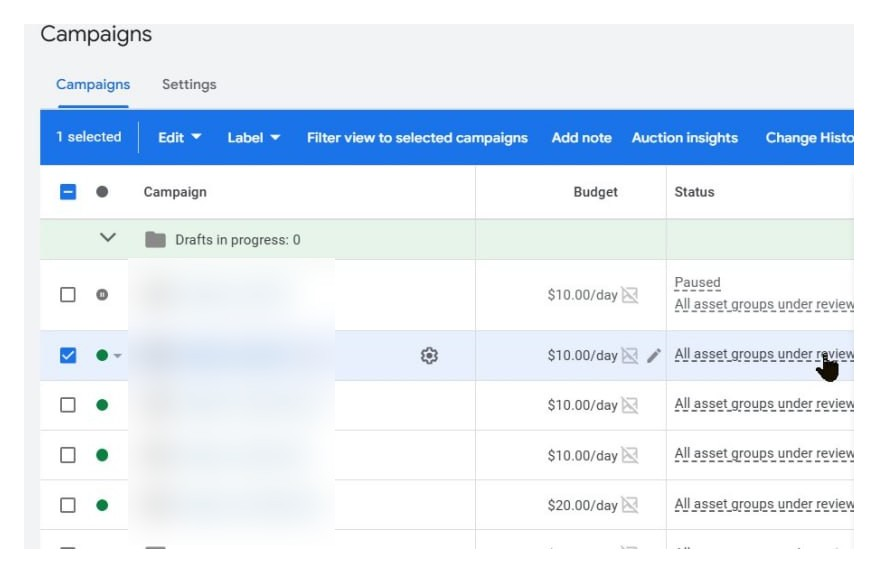
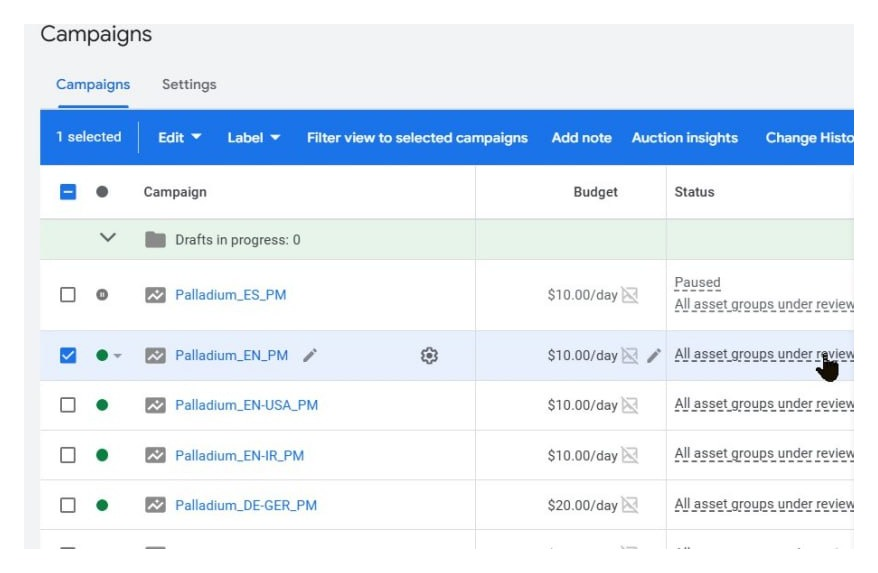
Кейс научного конкурса: убраны паддинги у скринов, разблюр, правки текста
- Убраны внутренние отступы у скриншотов (как в кейсе DBS), добавлен
  overflow:hidden в общий .ab-case-step-image, чтобы скругление рамки
  не перекрывалось прямоугольной картинкой без отступа
- Скрин "Структура кампаний 2025 года" заменен на незаблюренный
- Убрано предложение про предупреждение по тегу в кабинете
- Блок со статистикой по Египту разделен на два скрина с отдельными подписями
- Версия css/style.css забамплена до v=25 для сброса кэша

diff --git a/cases/nauchny-konkurs.html b/cases/nauchny-konkurs.html
@@ -16,7 +16,7 @@
   <link rel="preconnect" href="https://fonts.googleapis.com">
   <link rel="preconnect" href="https://fonts.gstatic.com" crossorigin>
   <link href="https://fonts.googleapis.com/css2?family=Golos+Text:wght@400;500;600;700;800;900&display=swap" rel="stylesheet">
-  <link rel="stylesheet" href="../css/style.css?v=24">
+  <link rel="stylesheet" href="../css/style.css?v=25">
 </head>
 <body>
 
@@ -165,7 +165,7 @@
         <div style="display:flex;flex-direction:column;gap:14px;">
           <h3 style="margin:0;font-size:21px;font-weight:700;color:#1A1612;">Проверка сайта, целей и аналитики</h3>
           <p style="margin:0;font-size:17px;line-height:1.7;color:#3F3933;text-wrap:pretty;">В 2025 году я подготовил код тега для GTM, команда клиента поставила его на лендинги, а аналитику GA4 клиент настраивал отдельным тегом на каждую локализацию. Мне нужен был доступ аккаунта рекламы к аналитике, чтобы импортировать цели, я запросил его через менеджера проекта.</p>
-          <p style="margin:0;font-size:17px;line-height:1.7;color:#3F3933;text-wrap:pretty;">Перед запуском 2026 года я проверил, какие домены работают: на 28 февраля жил только основной сайт, лендинги включались по мере готовности. Запуск 2 марта 2026 года я сделал на работающие домены, остальные добавлял по мере готовности. Когда в кабинете появилось предупреждение про тег, аналитик клиента подтвердил, что код стоит на страницах.</p>
+          <p style="margin:0;font-size:17px;line-height:1.7;color:#3F3933;text-wrap:pretty;">Перед запуском 2026 года я проверил, какие домены работают: на 28 февраля жил только основной сайт, лендинги включались по мере готовности. Запуск 2 марта 2026 года я сделал на работающие домены, остальные добавлял по мере готовности.</p>
         </div>
       </div>
 
@@ -177,7 +177,7 @@
         </div>
       </div>
       <figure class="ab-case-step-figure">
-        <div class="ab-case-step-image" style="padding:16px;">
+        <div class="ab-case-step-image">
           <img src="../images/cases/nauchny-konkurs/case-sc-priorities.jpg" alt="Приоритеты по странам от клиента: высокий, средний, низкий, стоп" width="368" height="1046" style="display:block;width:100%;max-width:360px;height:auto;margin:0 auto;cursor:zoom-in;" role="button" tabindex="0" onclick="abOpenLightbox(this)" onkeydown="if(event.key==='Enter'||event.key===' '){event.preventDefault();abOpenLightbox(this);}">
         </div>
         <figcaption>Приоритеты по странам от клиента: высокий, средний, низкий, стоп</figcaption>
@@ -190,7 +190,7 @@
           <p style="margin:0;font-size:17px;line-height:1.7;color:#3F3933;text-wrap:pretty;">В 2025 году лендингов было восемь. Я собирал кампании по языкам и регионам, а не «одна страна, одна кампания»: при ограниченном бюджете отдельные кампании на каждую страну не успели бы обучиться. Тексты и креативы под форматы Performance Max согласовал клиент. Модерация затянулась, я разбирал возможные причины (тема благородного металла, конкурс с крупным призовым фондом) и упрощал формулировки.</p>
 
           <figure class="ab-case-step-figure" style="margin:0;">
-            <div class="ab-case-step-image" style="padding:16px;">
+            <div class="ab-case-step-image">
               <img src="../images/cases/nauchny-konkurs/case-sc-campaigns-2025.jpg" alt="Структура кампаний Performance Max по языкам и странам, май 2025" width="878" height="573" style="display:block;width:100%;height:auto;cursor:zoom-in;" role="button" tabindex="0" onclick="abOpenLightbox(this)" onkeydown="if(event.key==='Enter'||event.key===' '){event.preventDefault();abOpenLightbox(this);}">
             </div>
             <figcaption>Структура кампаний 2025 года: языки и страны, май 2025</figcaption>
@@ -199,7 +199,7 @@
           <p style="margin:0;font-size:17px;line-height:1.7;color:#3F3933;text-wrap:pretty;">В 2026 году перезапуск шел на той же базе: заменил год в текстах и пересобрал пять языковых кампаний Performance Max (немецкий, английский, испанский, французский, португальский) под список стран клиента. Запуск был 2 марта 2026 года, 15 марта добавил базовые поисковые кампании.</p>
 
           <figure class="ab-case-step-figure" style="margin:0;">
-            <div class="ab-case-step-image" style="padding:16px;">
+            <div class="ab-case-step-image">
               <img src="../images/cases/nauchny-konkurs/case-sc-campaigns-2026.jpg" alt="Кампании 2026 года по странам, 22-28 июня 2026" width="1005" height="696" style="display:block;width:100%;height:auto;cursor:zoom-in;" role="button" tabindex="0" onclick="abOpenLightbox(this)" onkeydown="if(event.key==='Enter'||event.key===' '){event.preventDefault();abOpenLightbox(this);}">
             </div>
             <figcaption>Кампании 2026 года по странам, 22-28 июня 2026</figcaption>
@@ -214,18 +214,24 @@
           <p style="margin:0;font-size:17px;line-height:1.7;color:#3F3933;text-wrap:pretty;"><b>Египет и Индия.</b> В первую неделю клиент прислал статистику посещений: на Египет приходилось 22% визитов, на Индию 13%. В кабинете по этим странам расхода не было. Я проверил GA4 и увидел, что Египет приходил как google / cpc из моей кампании Performance Max. Алгоритм сам расширил показы за пределы таргетинга.</p>
 
           <figure class="ab-case-step-figure" style="margin:0;">
-            <div class="ab-case-step-image" style="padding:16px;display:grid;grid-template-columns:1fr 1fr;gap:12px;">
-              <img src="../images/cases/nauchny-konkurs/case-sc-egypt-india-visits.jpg" alt="Статистика посещений по странам, 2-8 марта 2026: Египет 22%, Индия 13%" width="604" height="720" style="display:block;width:100%;height:auto;border-radius:8px;cursor:zoom-in;" role="button" tabindex="0" onclick="abOpenLightbox(this)" onkeydown="if(event.key==='Enter'||event.key===' '){event.preventDefault();abOpenLightbox(this);}">
-              <img src="../images/cases/nauchny-konkurs/case-sc-ga4-egypt.jpg" alt="GA4: трафик из Египта шел как google / cpc из кампании Performance Max" width="1260" height="416" style="display:block;width:100%;height:auto;border-radius:8px;cursor:zoom-in;" role="button" tabindex="0" onclick="abOpenLightbox(this)" onkeydown="if(event.key==='Enter'||event.key===' '){event.preventDefault();abOpenLightbox(this);}">
+            <div class="ab-case-step-image">
+              <img src="../images/cases/nauchny-konkurs/case-sc-egypt-india-visits.jpg" alt="Статистика посещений по странам, 2-8 марта 2026: Египет 22%, Индия 13%" width="604" height="720" style="display:block;width:100%;height:auto;cursor:zoom-in;" role="button" tabindex="0" onclick="abOpenLightbox(this)" onkeydown="if(event.key==='Enter'||event.key===' '){event.preventDefault();abOpenLightbox(this);}">
             </div>
-            <figcaption>Статистика посещений и отчет GA4 по Египту, 2-8 марта 2026</figcaption>
+            <figcaption>Статистика посещений по странам, 2-8 марта 2026</figcaption>
+          </figure>
+
+          <figure class="ab-case-step-figure" style="margin:0;">
+            <div class="ab-case-step-image">
+              <img src="../images/cases/nauchny-konkurs/case-sc-ga4-egypt.jpg" alt="GA4: трафик из Египта шел как google / cpc из кампании Performance Max" width="1260" height="416" style="display:block;width:100%;height:auto;cursor:zoom-in;" role="button" tabindex="0" onclick="abOpenLightbox(this)" onkeydown="if(event.key==='Enter'||event.key===' '){event.preventDefault();abOpenLightbox(this);}">
+            </div>
+            <figcaption>Отчет GA4 по трафику из Египта, 2-8 марта 2026</figcaption>
           </figure>
 
           <p style="margin:0;font-size:17px;line-height:1.7;color:#3F3933;text-wrap:pretty;">Единственный способ остановить это в Performance Max: исключить страны явно. Я исключил Египет и Индию во всех кампаниях, затем добавил Нигерию и Словакию и составил превентивный список исключений. По накопительной статистике на апрель Египет дал около 1&nbsp;170 визитов против 1&nbsp;141 в первую неделю, то есть рост остановился.</p>
           <p style="margin:0;font-size:17px;line-height:1.7;color:#3F3933;text-wrap:pretty;"><b>Приоритеты клиента.</b> Для малоприоритетных стран я собрал отдельные кампании с минимальным бюджетом, чтобы присутствие было, но основной бюджет шел в приоритетные страны. В апреле сделал таблицу «целевая доля трафика против фактической» и записал действие по каждой стране: сократил бюджет французской кампании с 50 до 20 в день, урезал гео Бразилии, Аргентины и Мексики до крупных городов, убрал Катар, в странах с недобором увеличил лимиты. Для Китая я объяснил, что реклама Google там не работает, а переходы в аналитике из Китая это ошибка атрибуции.</p>
 
           <figure class="ab-case-step-figure" style="margin:0;">
-            <div class="ab-case-step-image" style="padding:16px;">
+            <div class="ab-case-step-image">
               <img src="../images/cases/nauchny-konkurs/case-sc-actions-table.jpg" alt="Целевая доля трафика, факт и действие по каждой стране, апрель 2026" width="1126" height="506" style="display:block;width:100%;height:auto;cursor:zoom-in;" role="button" tabindex="0" onclick="abOpenLightbox(this)" onkeydown="if(event.key==='Enter'||event.key===' '){event.preventDefault();abOpenLightbox(this);}">
             </div>
             <figcaption>Целевая доля трафика, факт и действие по каждой стране, апрель 2026</figcaption>
@@ -235,7 +241,7 @@
         </div>
       </div>
       <figure class="ab-case-step-figure">
-        <div class="ab-case-step-image" style="padding:16px;display:grid;grid-template-columns:1fr 1fr;gap:12px;">
+        <div class="ab-case-step-image" style="display:grid;grid-template-columns:1fr 1fr;gap:12px;">
           <div style="display:flex;flex-direction:column;gap:8px;">
             <span style="font-size:13px;font-weight:600;color:#8A8278;">16-22 июня 2026</span>
             <img src="../images/cases/nauchny-konkurs/case-sc-korea-before.jpg" alt="Показы по странам, 16-22 июня 2026: Южная Корея 119 652 показа" width="1188" height="363" style="display:block;width:100%;height:auto;cursor:zoom-in;" role="button" tabindex="0" onclick="abOpenLightbox(this)" onkeydown="if(event.key==='Enter'||event.key===' '){event.preventDefault();abOpenLightbox(this);}">
@@ -248,7 +254,7 @@
         <figcaption>Показы по странам до и после выноса Кореи в отдельную кампанию</figcaption>
       </figure>
       <figure class="ab-case-step-figure">
-        <div class="ab-case-step-image" style="padding:16px;">
+        <div class="ab-case-step-image">
           <img src="../images/cases/nauchny-konkurs/case-sc-korea-chart.jpg" alt="Доля Кореи в показах: 88,8% и 7,3%" width="1800" height="720" style="display:block;width:100%;height:auto;cursor:zoom-in;" role="button" tabindex="0" onclick="abOpenLightbox(this)" onkeydown="if(event.key==='Enter'||event.key===' '){event.preventDefault();abOpenLightbox(this);}">
         </div>
         <figcaption>Доля Кореи в показах: 88,8% и 7,3%</figcaption>
@@ -263,7 +269,7 @@
         </div>
       </div>
       <figure class="ab-case-step-figure">
-        <div class="ab-case-step-image" style="padding:16px;">
+        <div class="ab-case-step-image">
           <img src="../images/cases/nauchny-konkurs/case-sc-weekly-dynamics.jpg" alt="Клики и расход по неделям, март-апрель 2026" width="1950" height="780" style="display:block;width:100%;height:auto;cursor:zoom-in;" role="button" tabindex="0" onclick="abOpenLightbox(this)" onkeydown="if(event.key==='Enter'||event.key===' '){event.preventDefault();abOpenLightbox(this);}">
         </div>
         <figcaption>Клики и расход по неделям, март-апрель 2026</figcaption>
@@ -298,7 +304,7 @@
       </div>
 
       <figure class="ab-case-step-figure">
-        <div class="ab-case-step-image" style="padding:16px;">
+        <div class="ab-case-step-image">
           <img src="../images/cases/nauchny-konkurs/case-sc-season-2026.jpg" alt="Клики, расход и цена клика по месяцам, март-июль 2026" width="2250" height="780" style="display:block;width:100%;height:auto;cursor:zoom-in;" role="button" tabindex="0" onclick="abOpenLightbox(this)" onkeydown="if(event.key==='Enter'||event.key===' '){event.preventDefault();abOpenLightbox(this);}">
         </div>
         <figcaption>Клики, расход и цена клика по месяцам, март-июль 2026</figcaption>

diff --git a/cases/all-cases.html b/cases/all-cases.html
@@ -16,7 +16,7 @@
   <link rel="preconnect" href="https://fonts.googleapis.com">
   <link rel="preconnect" href="https://fonts.gstatic.com" crossorigin>
   <link href="https://fonts.googleapis.com/css2?family=Golos+Text:wght@400;500;600;700;800;900&display=swap" rel="stylesheet">
-  <link rel="stylesheet" href="../css/style.css?v=24">
+  <link rel="stylesheet" href="../css/style.css?v=25">
   <style>
     .case-row { display:flex; align-items:stretch; transition:transform 0.2s ease, box-shadow 0.2s ease; }
     .case-row:hover { transform:translateY(-4px); box-shadow:0 18px 36px -24px rgba(60,40,20,0.3); }

diff --git a/cases/index.html b/cases/index.html
@@ -15,7 +15,7 @@
   <link rel="preconnect" href="https://fonts.googleapis.com">
   <link rel="preconnect" href="https://fonts.gstatic.com" crossorigin>
   <link href="https://fonts.googleapis.com/css2?family=Golos+Text:wght@400;500;600;700;800;900&display=swap" rel="stylesheet">
-  <link rel="stylesheet" href="../css/style.css?v=24">
+  <link rel="stylesheet" href="../css/style.css?v=25">
   <style>
     .case-row { display:flex; align-items:stretch; transition:transform 0.2s ease, box-shadow 0.2s ease; }
     .case-row:hover { transform:translateY(-4px); box-shadow:0 18px 36px -24px rgba(60,40,20,0.3); }

diff --git a/cases/klinika-dubai.html b/cases/klinika-dubai.html
@@ -15,7 +15,7 @@
   <link rel="preconnect" href="https://fonts.googleapis.com">
   <link rel="preconnect" href="https://fonts.gstatic.com" crossorigin>
   <link href="https://fonts.googleapis.com/css2?family=Golos+Text:wght@400;500;600;700;800;900&display=swap" rel="stylesheet">
-  <link rel="stylesheet" href="../css/style.css?v=24">
+  <link rel="stylesheet" href="../css/style.css?v=25">
   <style>
     .kd-stats-strip { display:grid; grid-template-columns:repeat(2,1fr); }
     .kd-stats-strip > div { padding:24px 20px; border-top:1px solid #E6E0D7; }

diff --git a/cases/fulfillment-msk.html b/cases/fulfillment-msk.html
@@ -16,7 +16,7 @@
 <link rel="preconnect" href="https://fonts.googleapis.com">
 <link rel="preconnect" href="https://fonts.gstatic.com" crossorigin="">
 <link href="https://fonts.googleapis.com/css2?family=Golos+Text:wght@400;500;600;700;800;900&amp;display=swap" rel="stylesheet">
-<link rel="stylesheet" href="../css/style.css?v=24">
+<link rel="stylesheet" href="../css/style.css?v=25">
 <style>
 body{margin:0}
 *{box-sizing:border-box}

diff --git a/cases/manicure-salon-msk.html b/cases/manicure-salon-msk.html
@@ -16,7 +16,7 @@
 <link rel="preconnect" href="https://fonts.googleapis.com">
 <link rel="preconnect" href="https://fonts.gstatic.com" crossorigin="">
 <link href="https://fonts.googleapis.com/css2?family=Golos+Text:wght@400;500;600;700;800&amp;display=swap" rel="stylesheet">
-<link rel="stylesheet" href="../css/style.css?v=24">
+<link rel="stylesheet" href="../css/style.css?v=25">
 <style>
 body{margin:0}
 *{box-sizing:border-box}

diff --git a/cases/bani-bochki-mo.html b/cases/bani-bochki-mo.html
@@ -15,7 +15,7 @@
   <link rel="preconnect" href="https://fonts.googleapis.com">
   <link rel="preconnect" href="https://fonts.gstatic.com" crossorigin>
   <link href="https://fonts.googleapis.com/css2?family=Golos+Text:wght@400;500;600;700;800;900&display=swap" rel="stylesheet">
-  <link rel="stylesheet" href="../css/style.css?v=24">
+  <link rel="stylesheet" href="../css/style.css?v=25">
 </head>
 <body>
 

diff --git a/cases/dbs-dostavka.html b/cases/dbs-dostavka.html
@@ -16,7 +16,7 @@
   <link rel="preconnect" href="https://fonts.googleapis.com">
   <link rel="preconnect" href="https://fonts.gstatic.com" crossorigin>
   <link href="https://fonts.googleapis.com/css2?family=Golos+Text:wght@400;500;600;700;800;900&display=swap" rel="stylesheet">
-  <link rel="stylesheet" href="../css/style.css?v=24">
+  <link rel="stylesheet" href="../css/style.css?v=25">
 </head>
 <body>
 

diff --git a/cases/prokat-lyzh.html b/cases/prokat-lyzh.html
@@ -16,7 +16,7 @@
   <link rel="preconnect" href="https://fonts.googleapis.com">
   <link rel="preconnect" href="https://fonts.gstatic.com" crossorigin>
   <link href="https://fonts.googleapis.com/css2?family=Golos+Text:wght@400;500;600;700;800;900&display=swap" rel="stylesheet">
-  <link rel="stylesheet" href="../css/style.css?v=24">
+  <link rel="stylesheet" href="../css/style.css?v=25">
 </head>
 <body>
 

diff --git a/cases/sip-doma-mo.html b/cases/sip-doma-mo.html
@@ -15,7 +15,7 @@
   <link rel="preconnect" href="https://fonts.googleapis.com">
   <link rel="preconnect" href="https://fonts.gstatic.com" crossorigin>
   <link href="https://fonts.googleapis.com/css2?family=Golos+Text:wght@400;500;600;700;800;900&display=swap" rel="stylesheet">
-  <link rel="stylesheet" href="../css/style.css?v=24">
+  <link rel="stylesheet" href="../css/style.css?v=25">
 </head>
 <body>
 

diff --git a/cases/tatu-studiya-msk.html b/cases/tatu-studiya-msk.html
@@ -16,7 +16,7 @@
   <link rel="preconnect" href="https://fonts.googleapis.com">
   <link rel="preconnect" href="https://fonts.gstatic.com" crossorigin>
   <link href="https://fonts.googleapis.com/css2?family=Golos+Text:wght@400;500;600;700;800;900&display=swap" rel="stylesheet">
-  <link rel="stylesheet" href="../css/style.css?v=24">
+  <link rel="stylesheet" href="../css/style.css?v=25">
 </head>
 <body>
 

diff --git a/css/style.css b/css/style.css
@@ -1164,6 +1164,7 @@ button[style*="background:#FF5A1F"]:hover {
   background: #fff;
   border: 1px solid #ECE7DF;
   border-radius: 16px;
+  overflow: hidden;
 }
 
 .ab-case-step-image img { display: block; }
